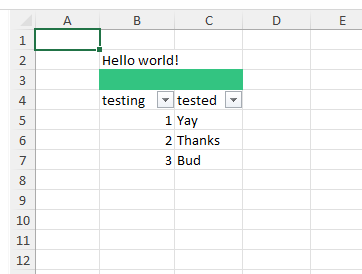
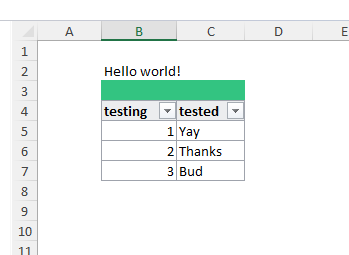
feat: add no grid option and default table styling

Changed region(s): [[0.0, 0.0275, 1.0, 1.0], [0.8309, 0.2471, 0.8596, 0.2745]]

diff --git a/excelipy/writers/table.py b/excelipy/writers/table.py
@@ -5,6 +5,7 @@ from xlsxwriter.workbook import Workbook, Worksheet
 
 from excelipy.models import Style, Table
 from excelipy.style import process_style
+from excelipy.styles.table import DEFAULT_HEADER_STYLE, DEFAULT_BODY_STYLE
 
 log = logging.getLogger("excelipy")
 
@@ -61,10 +62,12 @@ def write_table(
     x_size = component.data.shape[1]
     y_size = component.data.shape[0] + 1  # +1 for header row
 
-    header_format = process_style(
-        workbook,
-        [default_style, component.header_style]
-        )
+    header_styles = [default_style, component.header_style]
+    if component.default_style:
+        header_styles = [DEFAULT_HEADER_STYLE] + header_styles
+
+    header_format = process_style(workbook, header_styles)
+
     for col_idx, header in enumerate(component.data.columns):
         worksheet.write(
             origin[1],
@@ -95,15 +98,15 @@ def write_table(
         col_style = component.column_style.get(col)
         for row_idx, (_, row) in enumerate(component.data.iterrows()):
             row_style = component.row_style.get(row_idx)
-            non_none = filter(
-                None,
-                [
-                    default_style,
-                    component.body_style,
-                    col_style,
-                    row_style,
-                ],
-            )
+            body_style = [
+                default_style,
+                component.body_style,
+                col_style,
+                row_style,
+            ]
+            if component.default_style:
+                body_style = [DEFAULT_BODY_STYLE] + body_style
+            non_none = filter(None, body_style)
             current_format = process_style(workbook, list(non_none))
             cell = row[col]
             worksheet.write(

diff --git a/excelipy/service.py b/excelipy/service.py
@@ -16,11 +16,11 @@ log = logging.getLogger("excelipy")
 
 
 def write_component(
-    workbook: Workbook,
-    worksheet: Worksheet,
-    component: Component,
-    default_style: Style,
-    origin: Tuple[int, int] = (0, 0),
+        workbook: Workbook,
+        worksheet: Worksheet,
+        component: Component,
+        default_style: Style,
+        origin: Tuple[int, int] = (0, 0),
 ) -> Tuple[int, int]:
     writing_map = {
         Table: write_table,
@@ -49,6 +49,9 @@ def save(excel: Excel):
             sheet.style.pt(),
         )
         worksheet = workbook.add_worksheet(sheet.name)
+        if not sheet.grid_lines:
+            worksheet.hide_gridlines(2)
+
         for component in sheet.components:
             cur_origin = (
                 origin[0] + component.style.pl(),
@@ -61,7 +64,8 @@ def save(excel: Excel):
                 sheet.style,
                 cur_origin,
             )
-            origin = origin[0] + component.style.pr(), origin[1] + y + component.style.pb()
+            origin = origin[0] + component.style.pr(), origin[
+                1] + y + component.style.pb()
 
     workbook.close()
     log.debug("Workbook closed")

diff --git a/test/test.py b/test/test.py
@@ -24,7 +24,8 @@ def simple_example():
                 ep.Fill(width=2, style=ep.Style(background="#33c481")),
                 ep.Table(data=df()),
             ],
-            style=ep.Style(padding=1)
+            style=ep.Style(padding=1),
+            grid_lines=False,
         ),
     ]
 
@@ -96,6 +97,26 @@ def simple_image():
     ep.save(excel)
 
 
+def one_table_no_grid():
+    sheets = [
+        ep.Sheet(
+            name="Hello!",
+            components=[
+                ep.Table(data=df())
+            ],
+            grid_lines=False,
+            style=ep.Style(padding=1),
+        ),
+    ]
+
+    excel = ep.Excel(
+        path=Path("filename.xlsx"),
+        sheets=sheets,
+    )
+
+    ep.save(excel)
+
+
 if __name__ == "__main__":
     logging.basicConfig(level=logging.DEBUG)
-    simple_image()
+    simple_example()

diff --git a/excelipy/models.py b/excelipy/models.py
@@ -99,6 +99,7 @@ class Table(Component):
     row_style: Dict[int, Style] = Field(default_factory=dict)
     max_col_width: Optional[int] = Field(default=None)
     header_filters: bool = Field(default=True)
+    default_style: bool = Field(default=True)
 
     def with_stripes(
             self,
@@ -123,6 +124,7 @@ class Table(Component):
 class Sheet(BaseModel):
     name: str
     components: Sequence[Component] = Field(default_factory=list)
+    grid_lines: bool = Field(default=True)
     style: Style = Field(default_factory=Style)
 
 

diff --git a/excelipy/styles/table.py b/excelipy/styles/table.py
@@ -1,0 +1,13 @@
+from excelipy.models import Style
+
+DEFAULT_HEADER_STYLE = Style(
+    bold=True,
+    background="#ecedef",
+    border=1,
+    border_color="#9fa3ac",
+)
+
+DEFAULT_BODY_STYLE = Style(
+    border=1,
+    border_color="#9fa3ac",
+)

diff --git a/test/test_api.py b/test/test_api.py
@@ -79,6 +79,7 @@ def test_api(sample_df: pd.DataFrame, img_path: Path):
                 font_family="Times New Roman",
                 padding=1,
             ),
+            grid_lines=False,
         ),
     ]
 

diff --git a/README.md b/README.md
@@ -30,7 +30,8 @@ sheets = [
             ep.Fill(width=2, style=ep.Style(background="#33c481")),
             ep.Table(data=df),
         ],
-        style=ep.Style(padding=1)
+        style=ep.Style(padding=1),
+        grid_lines=False,
     ),
 ]
 
@@ -80,71 +81,10 @@ Result:
 
 ![image_example.png](static/image_example.png)
 
-## Advanced Example
+## Extra
 
-```python
-import excelipy as ep
+There are a lot of options regarding how to style your sheets.
+The tables come with a default style, which you can deactivate through the `default_style` flag.
 
-sheets = [
-    ep.Sheet(
-        name="Hello!",
-        components=[
-            ep.Text(
-                text="This is my table",
-                style=ep.Style(bold=True),
-                width=4,
-            ),
-            ep.Fill(
-                width=4,
-                style=ep.Style(background="#D0D0D0"),
-            ),
-            ep.Table(
-                data=df,
-                header_style=ep.Style(
-                    bold=True,
-                    border=5,
-                    border_color="#F02932",
-                ),
-                body_style=ep.Style(font_size=18),
-                column_style={
-                    "testing": ep.Style(
-                        font_size=10,
-                        align="center",
-                    ),
-                },
-                column_width={
-                    "tested": 20,
-                },
-                row_style={
-                    1: ep.Style(
-                        border=2,
-                        border_color="#F02932",
-                    )
-                },
-                style=ep.Style(padding=1),
-            ).with_stripes(pattern="even"),
-        ],
-        style=ep.Style(
-            font_size=14,
-            font_family="Times New Roman",
-            padding=1,
-        ),
-    ),
-]
-
-excel = ep.Excel(
-    path=Path("filename.xlsx"),
-    sheets=sheets,
-)
-
-ep.save(excel)
-```
-
-This is an exaggerated example, to show the capabilities of the package. You can
-see that for a table, you can define the header style, body style, column
-styles, row styles, and even the column widths. You can also add text and fill
-components to the sheet.
-
-This is the result:
-
-![advanced_example.png](static/advanced_example.png)
+The majority of the other styles will be added through the Style class. 
+Everything should be well typed, so the autocomplete should help with the options available.
